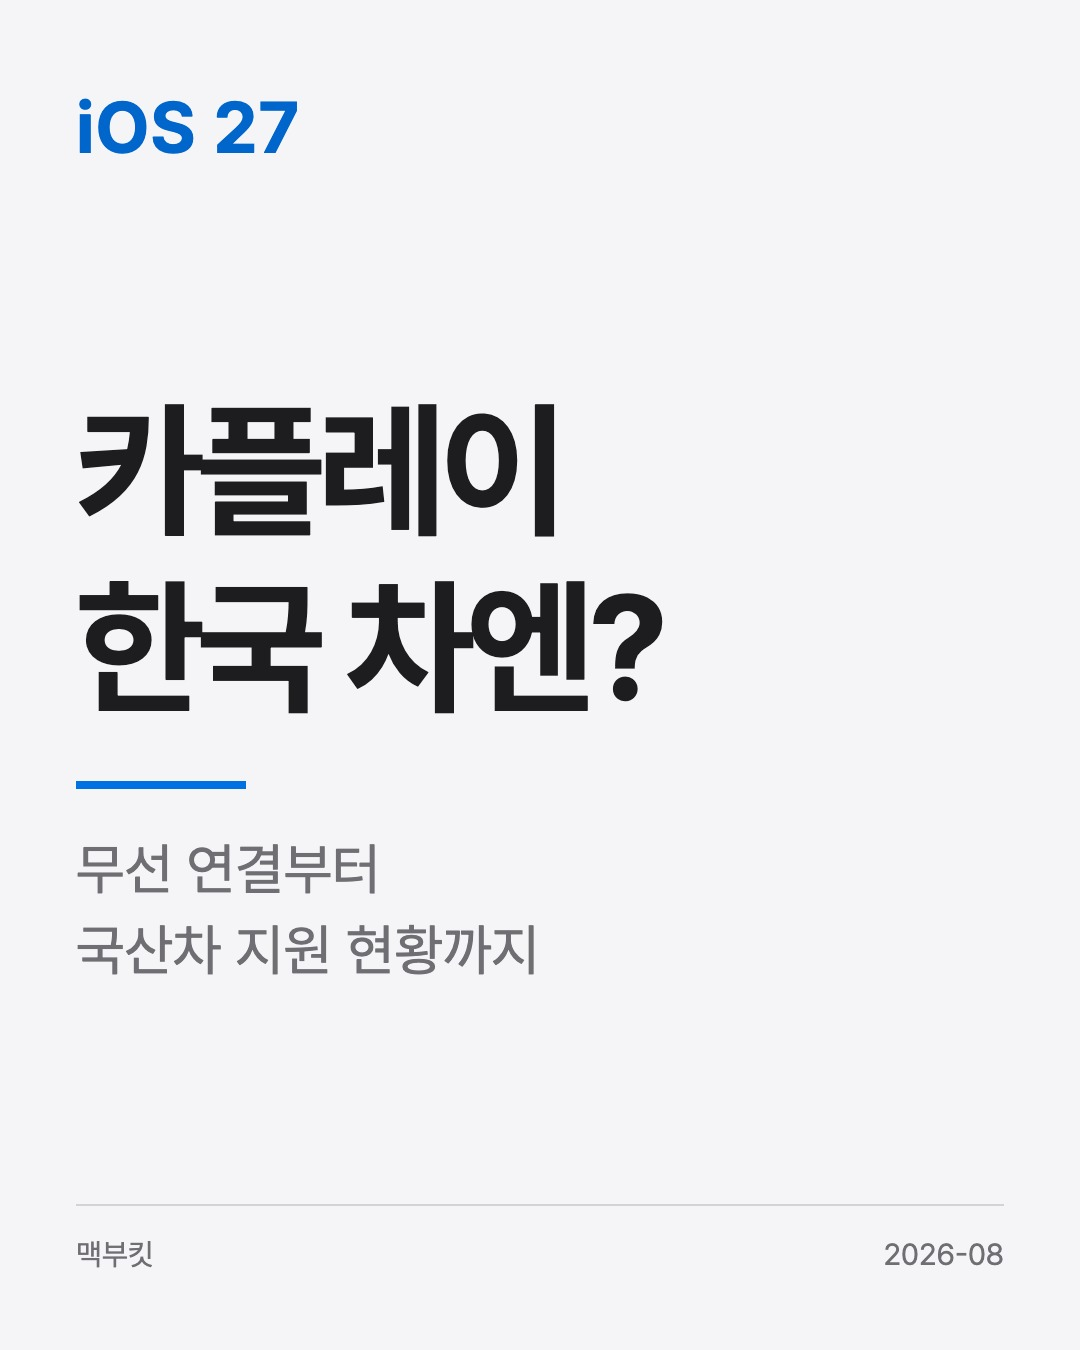
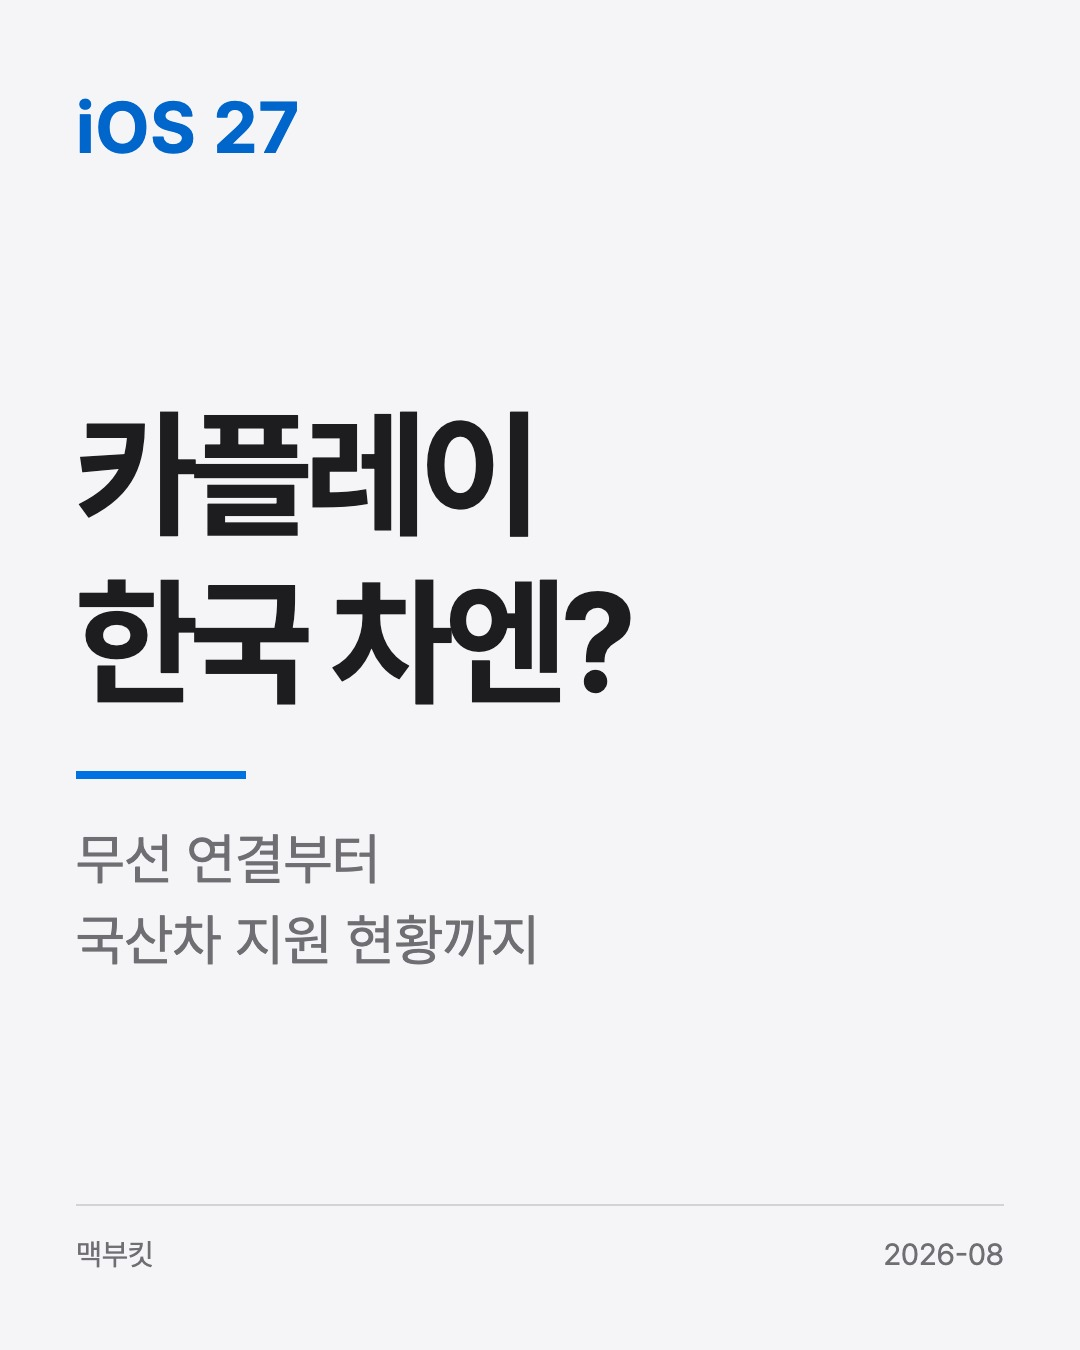
fix(macbookit): 카드 제목 크기를 140px 로 통일
카드마다 크기를 달리 주니(160/124/148) 목록에 나란히 놨을 때
들쭉날쭉해 보였다(2026-08-28 사용자 지적). --title-px 를 없애고
크기 대신 «문구»를 한도에 맞춘다 — 한글 6자 · 라틴 11자.
폭만 먹던 `×` 를 빼니 Antigravity 도 140px 에 들어간다.

Claude-Session: https://claude.ai/code/session_012tPPhjthmEbBcz8SBm9Lwy

Changed region(s): [[0.0611, 0.28, 0.6111, 0.5289], [0.0611, 0.6222, 0.4889, 0.7467], [0.0611, 0.56, 0.2444, 0.5911]]

diff --git a/macbookit-tistory/brand/card-vertical.css b/macbookit-tistory/brand/card-vertical.css
@@ -10,7 +10,7 @@ body{margin:0;width:1080px;height:1350px;background:var(--bg);
      display:flex;flex-direction:column;justify-content:space-between;
      padding:86px 76px 78px;box-sizing:border-box}
 .top{font-size:72px;color:var(--kicker);letter-spacing:.01em;font-weight:700;line-height:1.15}
-.mid h1{margin:0;font-size:138px;line-height:1.2;color:var(--title);font-weight:700;letter-spacing:-.045em}
+.mid h1{margin:0;font-size:140px;line-height:1.2;color:var(--title);font-weight:700;letter-spacing:-.045em}
 .mid .rule{border-bottom:8px solid var(--rule);width:170px;margin:44px 0 40px}
 .mid .sub{font-size:56px;color:var(--sub);line-height:1.45;font-weight:500}
 .bot{display:flex;justify-content:space-between;align-items:flex-end;

diff --git a/macbookit-tistory/brand/make_card.py b/macbookit-tistory/brand/make_card.py
@@ -39,11 +39,9 @@ def main() -> int:
     ap.add_argument("--date", default="2026-08")
     ap.add_argument("--palette", choices=sorted(PALETTES), default="clay",
                     help="clay=Claude code · blue=Apple & Mac")
-    ap.add_argument("--title-px", type=int, default=138,
-                    help="제목 크기. 라틴 단어가 길면 줄인다(기본 138)")
     a = ap.parse_args()
 
-    pal = PALETTES[a.palette] + f"\n.mid h1{{font-size:{a.title_px}px}}"
+    pal = PALETTES[a.palette]
     html = TPL.format(css=BRAND / "card-vertical.css", palette=pal,
                       kicker=a.kicker,
                       title=a.title.replace("|", "<br>"),
